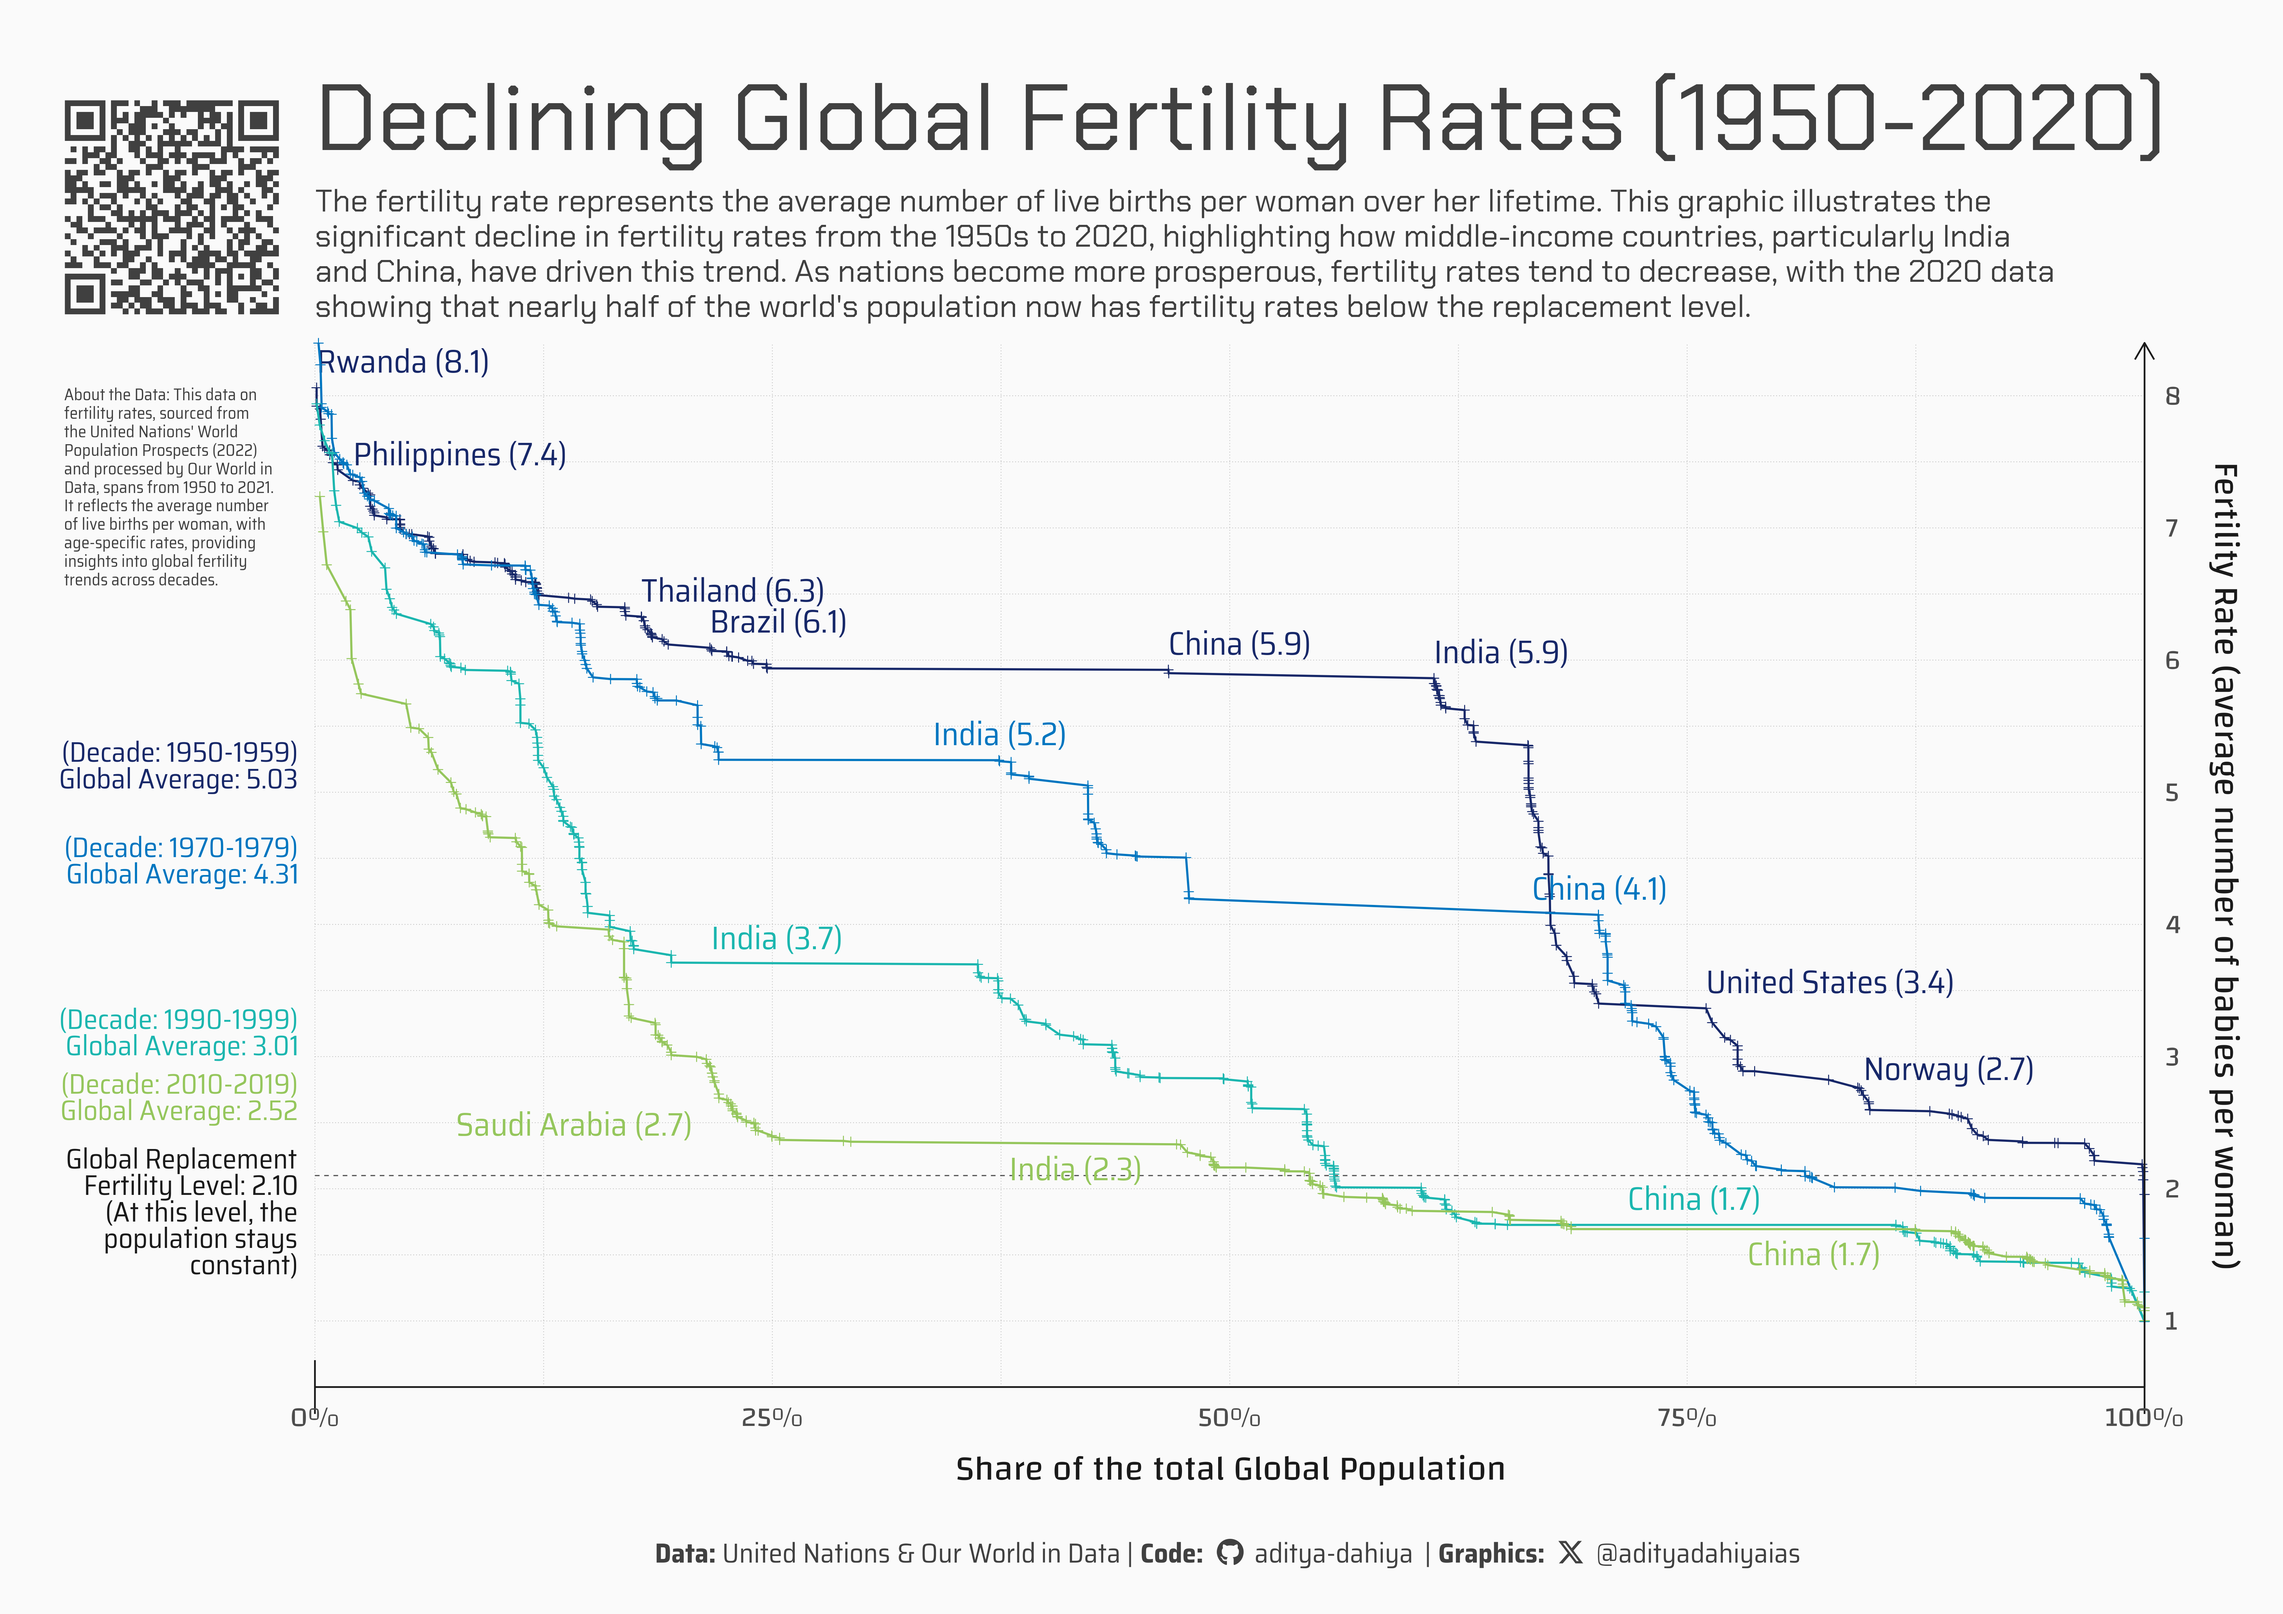
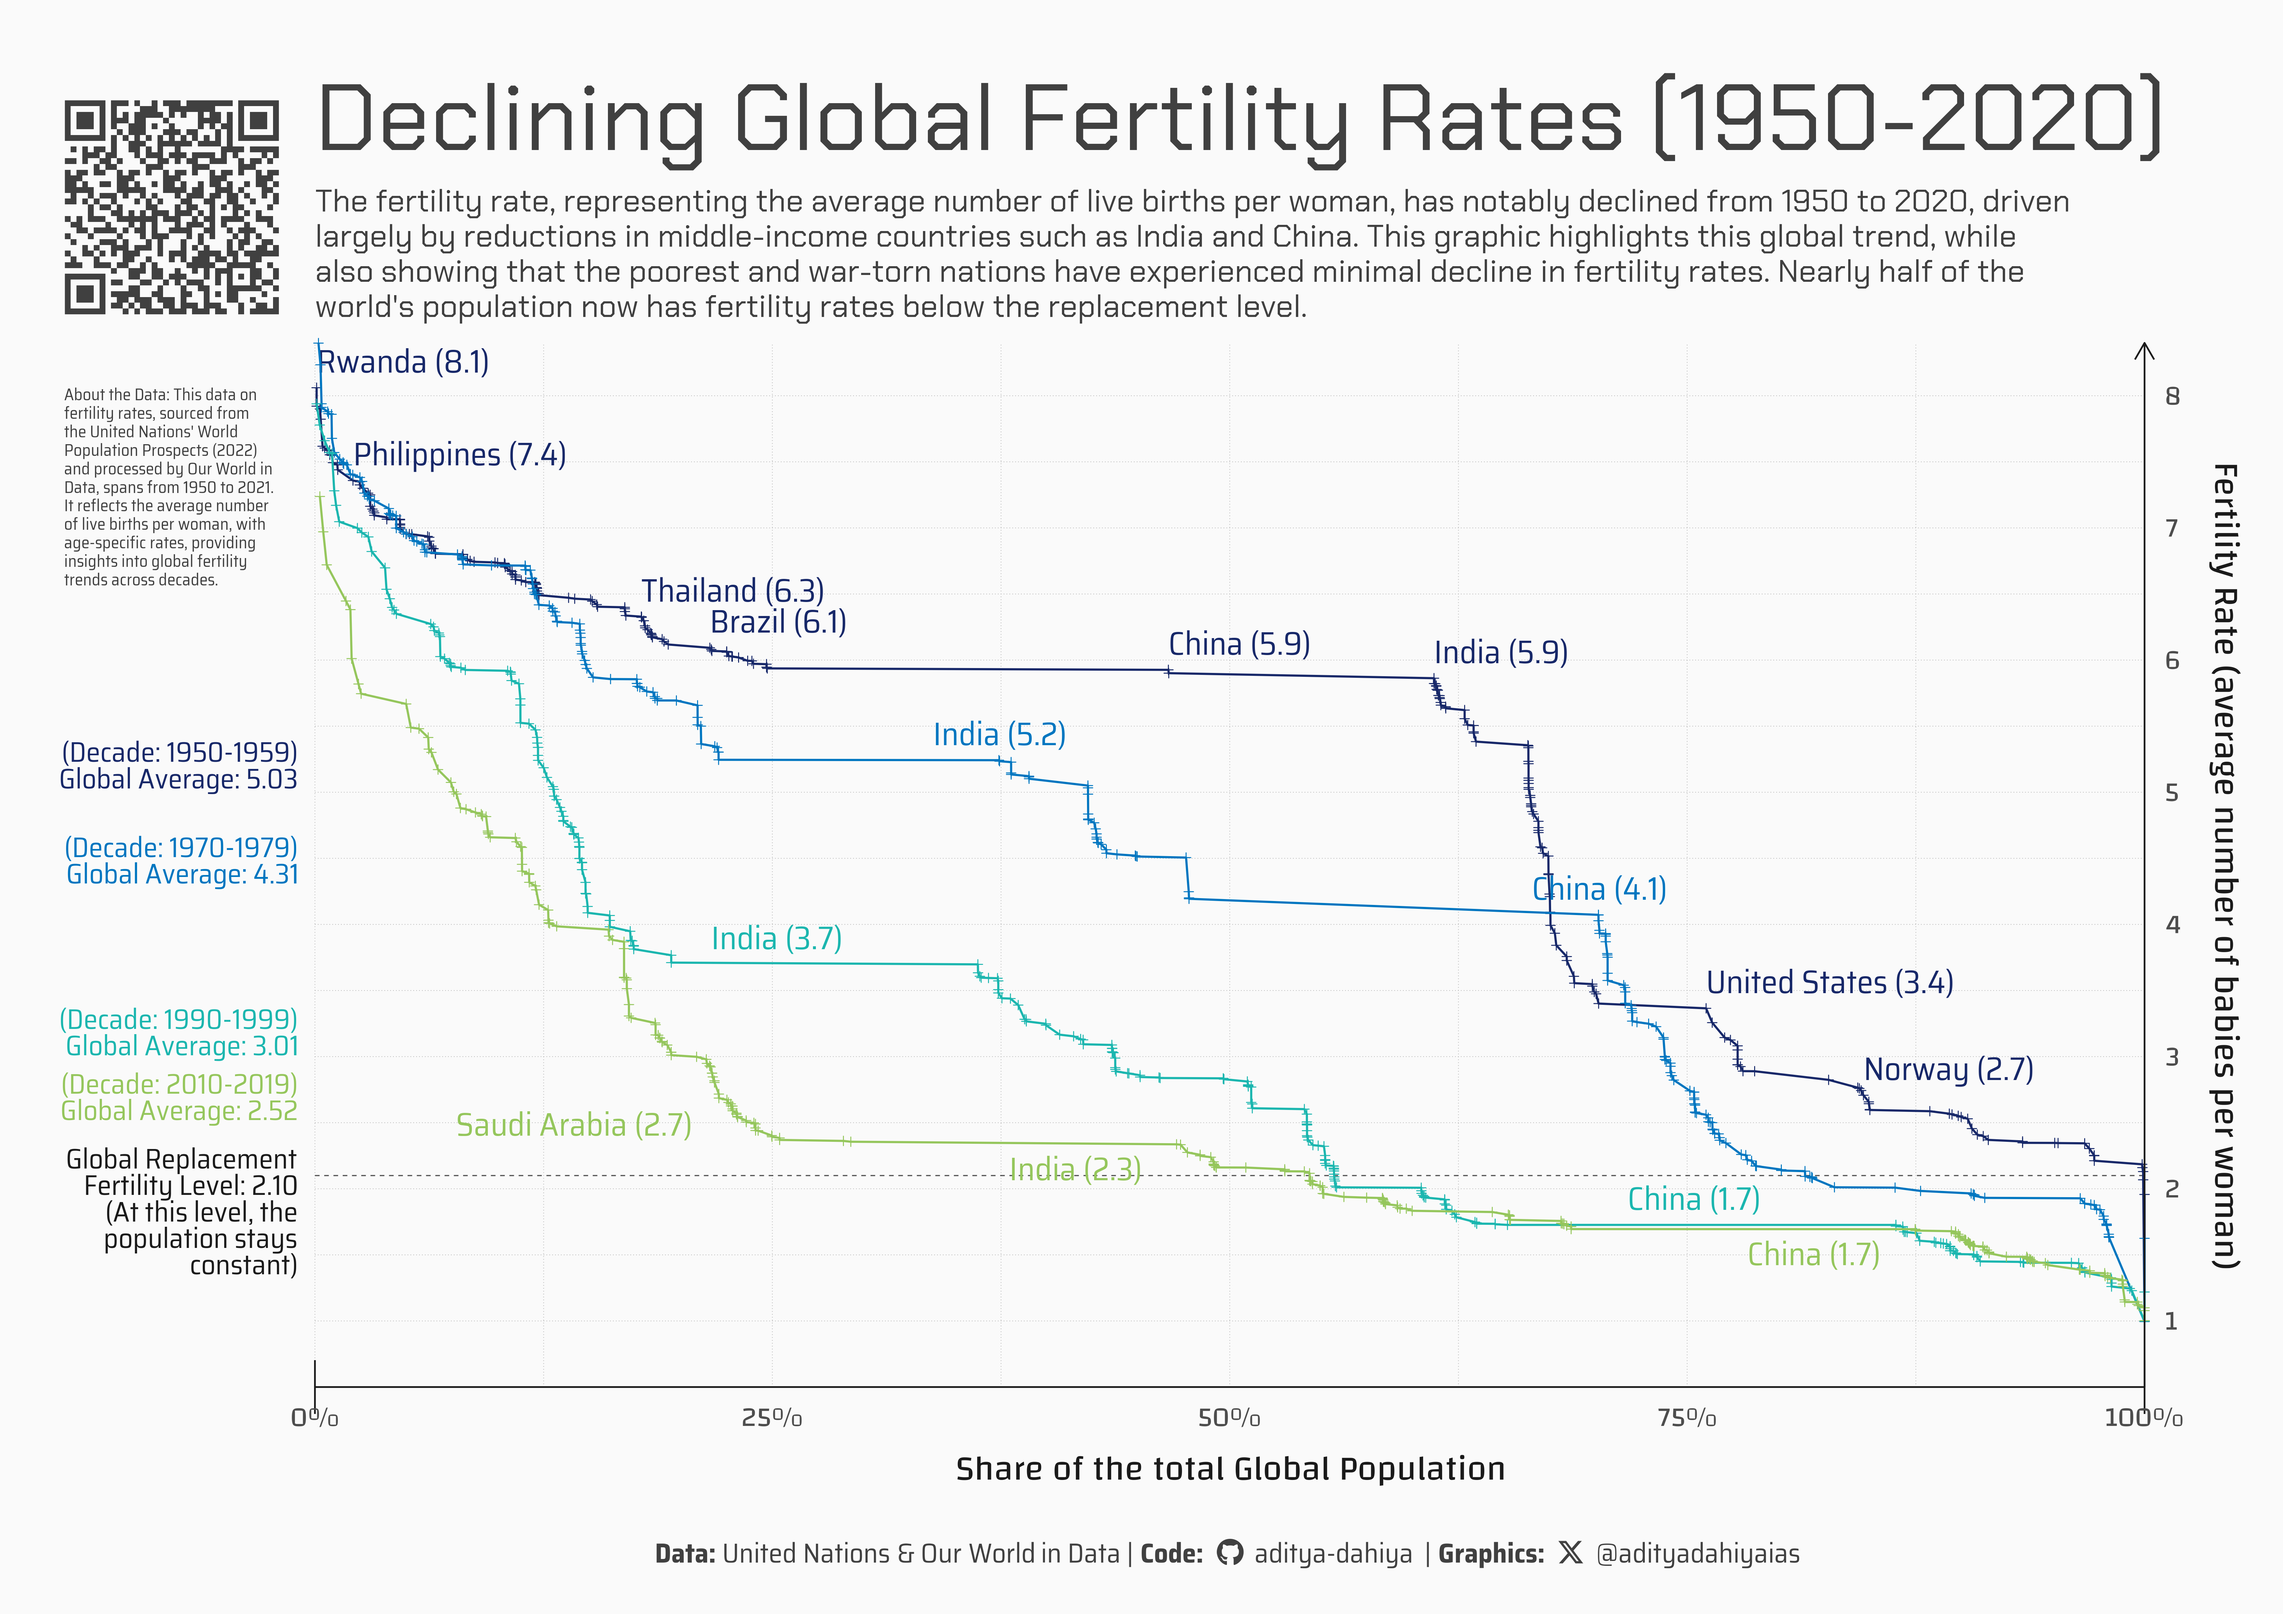
update fertility a4 graphic subtitle

Changed region(s): [[0.1561, 0.0938, 0.9053, 0.2188]]

diff --git a/docs/data_vizs/owid_fertility.html b/docs/data_vizs/owid_fertility.html
@@ -316,7 +316,7 @@ Figure&nbsp;1: This graphic shows the changes in global fertility rates from the
 <span id="cb2-28"><a href="#cb2-28" aria-hidden="true" tabindex="-1"></a></span>
 <span id="cb2-29"><a href="#cb2-29" aria-hidden="true" tabindex="-1"></a>plot_title <span class="ot">&lt;-</span> <span class="st">"Declining Global Fertility Rates (1950-2020)"</span></span>
 <span id="cb2-30"><a href="#cb2-30" aria-hidden="true" tabindex="-1"></a></span>
-<span id="cb2-31"><a href="#cb2-31" aria-hidden="true" tabindex="-1"></a>plot_subtitle <span class="ot">&lt;-</span> <span class="st">"The fertility rate represents the average number of live births per woman over her lifetime. This graphic illustrates the significant decline in fertility rates from the 1950s to 2020, highlighting how middle-income countries, particularly India and China, have driven this trend. As nations become more prosperous, fertility rates tend to decrease, with the 2020 data showing that nearly half of the world's population now has fertility rates below the replacement level."</span></span>
+<span id="cb2-31"><a href="#cb2-31" aria-hidden="true" tabindex="-1"></a>plot_subtitle <span class="ot">&lt;-</span> <span class="st">"The fertility rate, representing the average number of live births per woman, has notably declined from 1950 to 2020, driven largely by reductions in middle-income countries such as India and China. This graphic highlights this global trend, while also showing that the poorest and war-torn nations have experienced minimal decline in fertility rates. Nearly half of the world's population now has fertility rates below the replacement level."</span></span>
 <span id="cb2-32"><a href="#cb2-32" aria-hidden="true" tabindex="-1"></a></span>
 <span id="cb2-33"><a href="#cb2-33" aria-hidden="true" tabindex="-1"></a>data_annotation <span class="ot">&lt;-</span> <span class="st">"About the Data: This data on fertility rates, sourced from the United Nations' World Population Prospects (2022) and processed by Our World in Data, spans from 1950 to 2021. It reflects the average number of live births per woman, with age-specific rates, providing insights into global fertility trends across decades."</span></span>
 <span id="cb2-34"><a href="#cb2-34" aria-hidden="true" tabindex="-1"></a></span>
